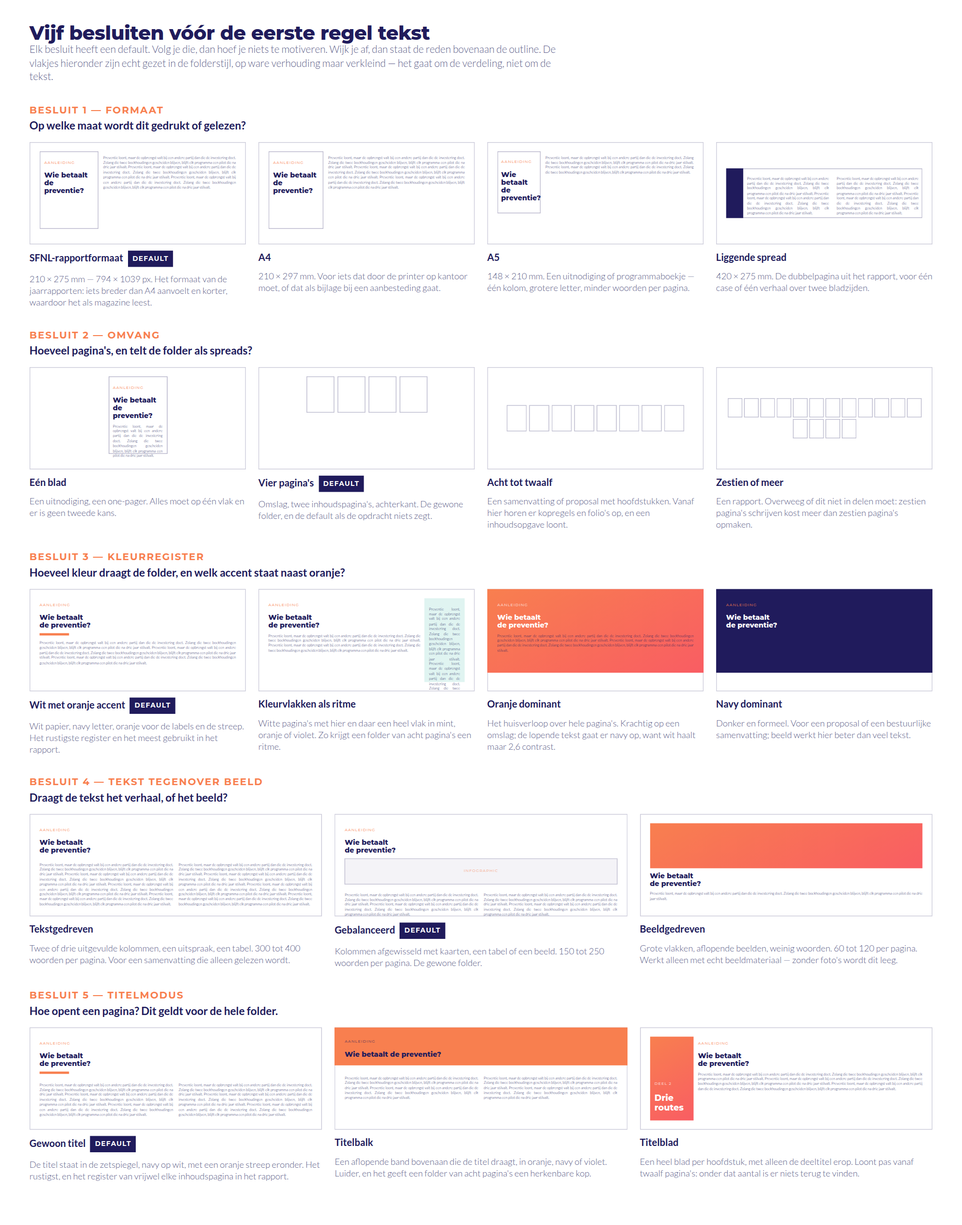
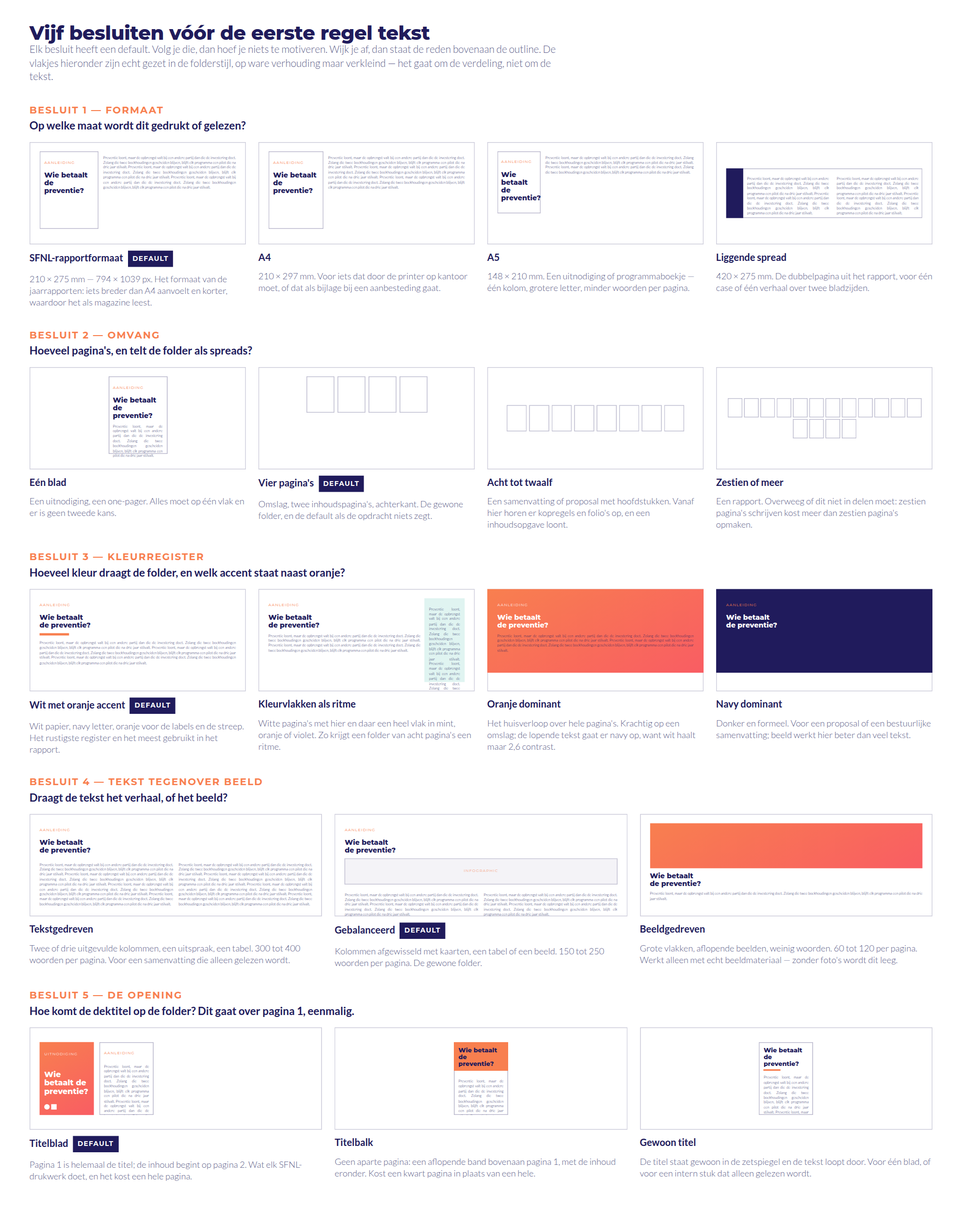
Besluit 5 gaat over de opening, niet over elke pagina
Correctie op de vorige commit. Ik had er een paginabrede modus van gemaakt —
"hoe opent een pagina, en dat geldt voor de hele folder" — terwijl het over de
dektitel gaat: hoe komt de naam van het stuk op de folder te staan. Dat gebeurt
één keer, op pagina 1.

Besluit 5 heet nu **de opening** en de afweging is ruimte tegen herkenbaarheid:

- **titelblad** (default) — pagina 1 is helemaal de titel. Wat elk SFNL-drukwerk
  doet, en het kost een hele pagina; op vier pagina's is dat een kwart.
- **titelbalk** — een aflopende band bovenaan pagina 1, inhoud eronder. Een
  kwart pagina in plaats van een hele.
- **gewoon titel** — de dektitel in de zetspiegel, tekst loopt door. Op één blad
  de enige die kan.

De oude regels eromheen klopten daardoor ook niet en zijn vervangen. "Onder de
twaalf pagina's bestaat het titelblad niet" was fout: een titelblad is precies
wat de omslag al is en is op vier pagina's volstrekt normaal. En "nooit half
balk en half gewoon" ging over de verkeerde as.

**Hoofdstukopeningen zijn iets anders** en staan nu waar ze horen: in de
outline, niet in het vragenvuur. Ze bestaan pas vanaf acht pagina's, want
daaronder zijn er geen hoofdstukken maar pagina's met een titel erboven. Drie
manieren — een kop met watermerkcijfer, een band, of een heel blad — en één
manier voor alle hoofdstukken.

**De titelbalk heeft daarmee drie gebruiken**, en de consistentieregel geldt
binnen elk apart: de dektitel, een hoofdstukopening, of één pagina die apart
[…]

Changed region(s): [[0.3438, 0.8337, 0.9375, 0.9572], [0.0312, 0.8029, 0.3438, 0.9572], [0.5938, 0.9264, 0.625, 0.9572]]

diff --git a/assets/folders/stijl.css b/assets/folders/stijl.css
@@ -608,9 +608,16 @@ a:hover { color: var(--grapefruit); }
   pointer-events: none;
 }
 
-/* 8.13a De titelbalk — de tweede van de drie titelmodi.
+/* 8.13a De titelbalk — een titel op een aflopende band.
 
-   Een aflopende band over de volle breedte die de titel draagt. Hij bleedt
+   Drie gebruiken, en ze zijn niet hetzelfde: de dektitel op pagina 1 (besluit 5
+   uit het vragenvuur), een hoofdstukopening vanaf acht pagina's, of één pagina
+   die apart staat. Dat laatste doet het drukwerk zelf ook — het rapport 2025
+   zet zijn interviewpaneel op precies één pagina. De consistentieregel geldt
+   binnen elk gebruik apart: krijgen de hoofdstukken een band, dan krijgen ze
+   hem allemaal, in dezelfde kleur en dezelfde hoogte.
+
+   De band loopt over de volle breedte en draagt de titel. Hij bleedt
    links, rechts en boven; binnenin lijnt hij uit op de marge, zodat de titel
    op dezelfde lijn staat als de tekst eronder. De titel hangt aan de ónderkant
    van de band, want dan is de afstand tot de tekst eronder de maat die het oog

diff --git a/scripts/folders/keuzekaart.py b/scripts/folders/keuzekaart.py
@@ -212,31 +212,40 @@ def bouw_html() -> str:
              "Werkt alleen met echt beeldmateriaal &mdash; zonder foto's wordt dit leeg.", False),
         ]),
 
-        _blok("Besluit 5 &mdash; titelmodus",
-              "Hoe opent een pagina? Dit geldt voor de hele folder.", [
-            ("Gewoon titel",
-             f'<div style="height:100%">{lab}{kop}'
-             f'<hr style="border:0;height:3px;width:38px;background:var(--oranje);margin:5px 0 6px">'
-             f'<div class="g2">{_lorem(3)}{_lorem(3)}</div></div>',
-             "De titel staat in de zetspiegel, navy op wit, met een oranje streep eronder. "
-             "Het rustigst, en het register van vrijwel elke inhoudspagina in het rapport.", True),
-            ("Titelbalk",
-             f'<div style="height:100%;margin:-12px -13px;display:flex;flex-direction:column">'
-             f'<div style="background:var(--oranje);color:var(--navy);padding:10px 13px 9px">'
-             f'<p class="minilabel" style="color:var(--navy);opacity:.75">Aanleiding</p>'
-             f'<p class="minikop" style="margin:0">Wie betaalt de preventie?</p></div>'
-             f'<div style="flex:1;padding:8px 13px 12px"><div class="g2">{_lorem(2)}{_lorem(2)}</div></div></div>',
-             "Een aflopende band bovenaan die de titel draagt, in oranje, navy of violet. "
-             "Luider, en het geeft een folder van acht pagina&#39;s een herkenbare kop.", False),
+        _blok("Besluit 5 &mdash; de opening",
+              "Hoe komt de dektitel op de folder? Dit gaat over pagina 1, eenmalig.", [
             ("Titelblad",
-             f'<div style="height:100%;display:flex;gap:6px">'
-             f'<div style="width:56px;height:100%;background:var(--verloop);padding:7px 6px;'
-             f'display:flex;flex-direction:column;justify-content:flex-end">'
-             f'<p class="minilabel" style="color:#fff;opacity:.85">Deel 2</p>'
-             f'<p class="minikop" style="color:#fff;font-size:11px">Drie routes</p></div>'
-             f'<div style="flex:1">{lab}{kop}{_lorem(3)}</div></div>',
-             "Een heel blad per hoofdstuk, met alleen de deeltitel erop. Loont pas vanaf "
-             "twaalf pagina&#39;s: onder dat aantal is er niets terug te vinden.", False),
+             f'<div style="height:100%;display:flex;gap:7px;align-items:center">'
+             f'<div style="width:70px;height:94px;background:var(--verloop);padding:7px 6px;'
+             f'display:flex;flex-direction:column;justify-content:space-between">'
+             f'<p class="minilabel" style="color:#fff;opacity:.85;margin:0">Uitnodiging</p>'
+             f'<p class="minikop" style="color:#fff;font-size:10px;margin:0">Wie betaalt de preventie?</p>'
+             f'<div style="display:flex;gap:2px;align-items:center">'
+             f'<div style="width:7px;height:7px;border-radius:50%;background:#fff"></div>'
+             f'<div style="width:7px;height:7px;background:#fff"></div></div></div>'
+             f'<div style="width:70px;height:94px;box-shadow:inset 0 0 0 1px rgba(32,27,92,.3);'
+             f'padding:6px;overflow:hidden">{lab}{_lorem(2)}</div>'
+             f'<div style="flex:1"></div></div>',
+             "Pagina 1 is helemaal de titel; de inhoud begint op pagina 2. Wat elk "
+             "SFNL-drukwerk doet, en het kost een hele pagina.", True),
+            ("Titelbalk",
+             f'<div style="height:100%;display:flex;justify-content:center;align-items:center">'
+             f'<div style="width:70px;height:94px;box-shadow:inset 0 0 0 1px rgba(32,27,92,.3);'
+             f'display:flex;flex-direction:column;overflow:hidden">'
+             f'<div style="background:var(--oranje);color:var(--navy);padding:6px 6px 5px">'
+             f'<p class="minikop" style="margin:0;font-size:8px">Wie betaalt de preventie?</p></div>'
+             f'<div style="flex:1;padding:5px 6px">{_lorem(2)}</div></div></div>',
+             "Geen aparte pagina: een aflopende band bovenaan pagina 1, met de inhoud "
+             "eronder. Kost een kwart pagina in plaats van een hele.", False),
+            ("Gewoon titel",
+             f'<div style="height:100%;display:flex;justify-content:center;align-items:center">'
+             f'<div style="width:70px;height:94px;box-shadow:inset 0 0 0 1px rgba(32,27,92,.3);'
+             f'padding:6px;overflow:hidden">'
+             f'<p class="minikop" style="margin:0 0 3px;font-size:8px">Wie betaalt de preventie?</p>'
+             f'<hr style="border:0;height:2px;width:22px;background:var(--oranje);margin:0 0 5px">'
+             f'{_lorem(3)}</div></div>',
+             "De titel staat gewoon in de zetspiegel en de tekst loopt door. Voor "
+             "&eacute;&eacute;n blad, of voor een intern stuk dat alleen gelezen wordt.", False),
         ]),
     ]
     return KAART.format(stijl=stijl, blokken="".join(blokken))

diff --git a/skills/sfnl-design-folders/SKILL.md b/skills/sfnl-design-folders/SKILL.md
@@ -69,8 +69,8 @@ tokens en ziet de gebruiker waar hij tussen kiest in plaats van vier woorden.
 **Stel de vijf vormvragen daarna met `AskUserQuestion`**, met de optienamen van de kaart zodat
 het beeld en de vraag hetzelfde heten. Dat gaat in twee aanroepen achter elkaar, want het widget
 neemt er vier per keer: eerst de drie die het hele document bepalen (formaat, omvang,
-kleurregister), dan de twee over hoe een pagina opent en wat hem draagt (titelmodus,
-beeldregister). De poort blijft één poort — er wordt niets geschreven voordat beide binnen zijn.
+kleurregister), dan de twee over wat een pagina draagt en hoe de folder opent (beeldregister,
+opening). De poort blijft één poort — er wordt niets geschreven voordat beide binnen zijn.
 De vier opdrachtvragen stel je in gewoon proza in hetzelfde bericht als de kaart.
 
 Verandert er een optie, dan bouw je de kaart opnieuw met
@@ -102,9 +102,10 @@ gebeurt is het besluit per pagina opnieuw nemen.
 
 De volgorde loopt van grof naar fijn. Het formaat bepaalt hoeveel er per pagina in gaat, de
 omvang bepaalt hoeveel pagina's dat zijn, het kleurregister bepaalt hoeveel vlak er staat, het
-beeldregister bepaalt daarbinnen wat tekst blijft, en de titelmodus raakt alleen de kop van de
-pagina. Een besluit verderop draait er nooit een eerder in de rij terug — en de titelmodus staat
-daarom achteraan: hij is de enige die niets aan de rest van de pagina verandert.
+beeldregister bepaalt daarbinnen wat tekst blijft, en de opening raakt alleen de eerste pagina.
+Een besluit verderop draait er nooit een eerder in de rij terug — en de opening staat daarom
+achteraan: hij is de enige die maar één pagina raakt, en hij hangt aan de omvang, want een
+titelblad kost er een.
 
 1. **Het formaat.** SFNL-rapportformaat (210 × 275 mm), A4, A5, of de liggende spread
    (420 × 275 mm). Default is **SFNL-rapportformaat**: dat is de maat van de jaarrapporten en de
@@ -134,26 +135,30 @@ daarom achteraan: hij is de enige die niets aan de rest van de pagina verandert.
    ontworpen. Is er geen beeld en wil de gebruiker het toch, zeg dan wat het kost en stel
    gebalanceerd voor met kleurvlakken als drager.
 
-5. **De titelmodus: gewoon titel, titelbalk of titelblad.** Hoe opent een pagina, en dat geldt
-   voor de hele folder.
+5. **De opening: titelblad, titelbalk of gewoon titel.** Hoe komt de dektitel op de folder te
+   staan. Dit is een eenmalig besluit over de eerste pagina en geen modus die op elke pagina
+   terugkomt.
 
-   | modus | wat het is | wanneer |
+   | opening | wat het is | wat het kost |
    |---|---|---|
-   | **gewoon titel** — default | de titel staat in de zetspiegel, navy op wit, met een oranje streep eronder | het rustigst, en het register van vrijwel elke inhoudspagina in het rapport |
-   | **titelbalk** | een aflopende band bovenaan die de titel draagt, in oranje, navy of violet | luider, en het geeft een folder een herkenbare kop. Zet `--balk` op de `.pagina` |
-   | **titelblad** | een heel blad per hoofdstuk, met alleen de deeltitel erop | pas vanaf twaalf pagina's |
+   | **titelblad** — default | pagina 1 is helemaal de titel: dektitel, ondertitel, klant en datum, logo, op een kleurveld of op wit | een hele pagina. Op vier pagina's is dat een kwart van je ruimte |
+   | **titelbalk** | geen aparte pagina: pagina 1 draagt bovenaan een aflopende band met de dektitel, en de inhoud begint eronder | ongeveer een kwart pagina, en de eerste pagina wordt voller |
+   | **gewoon titel** | de dektitel staat gewoon in de zetspiegel van pagina 1, met een streep eronder, en de tekst loopt door | vrijwel niets |
 
-   **Onder de twaalf pagina's bestaat het titelblad niet.** Dat is geen formaliteit: een titelblad
-   is er om een hoofdstuk terugvindbaar te maken, en in een folder van vier pagina's is er niets
-   terug te vinden. Het kost bovendien een heel blad van de vier.
+   Default is het **titelblad**, want dat is wat elk SFNL-drukwerk doet en het is de pagina waar
+   iemand het stuk aan herkent. Twee uitzonderingen die je zelf ziet aankomen. Op **één blad**
+   bestaat het niet — dan is er niets over voor de inhoud, dus daar is het de titelbalk of gewoon
+   een titel. En bij een **intern stuk dat alleen gelezen wordt** is een heel blad voor de titel
+   meestal zonde: een notitie van vier pagina's met een titelblad heeft drie pagina's inhoud.
 
-   Dit besluit varieert **nooit per pagina**. Half balk en half gewoon levert een folder op waarin
-   de lezer niet weet of een titel een hoofdstuk of een bewering is. Wat wél mag: in de modus
-   *titelblad* dragen de inhoudspagina's daarachter gewoon een titel — dat is dezelfde modus en
-   geen mengeling.
+   Kies je de titelbalk, dan spreek je hier ook de kleur af — oranje, navy of violet. Op oranje is
+   de inkt navy; op navy en violet is hij wit.
 
-   Kies je de titelbalk, dan spreek je hier ook de kleur af, en dat is er één voor de hele folder.
-   Op oranje is de inkt navy; op navy en violet is hij wit. `maatstaf/03` is de balk in violet.
+   **Hoofdstukopeningen zijn iets anders en horen hier niet.** Heeft de folder hoofdstukken, dan
+   is de vraag hoe die openen een eigen vraag, en je beantwoordt hem in de outline en niet hier —
+   zie *Hoofdstukken* in stap 2. Een folder kan dus prima met een titelblad beginnen en daarna
+   per hoofdstuk een band dragen; dat is geen mengeling maar twee besluiten over twee
+   verschillende dingen.
 
 **Twee dingen worden niet gevraagd.** De maatladder is een regel en geen voorkeur: body 10/13 pt,
 klein 8 pt, kop 12 pt, titel 20 pt, plus displaymaat op de omslag. En de letters staan vast —
@@ -199,6 +204,23 @@ Dan per pagina:
 **Wat je niet in de outline zet: maten.** Geen px, geen kolombreedtes, geen paginaindeling. De
 plattegrond, de drager en het beeldbesluit horen er wél in — dat is de reden waarom de tekst deze
 lengte heeft, en het is het enige stuk vorm dat vóór het bouwen te beoordelen is.
+
+**Hoofdstukken, als de folder ze heeft.** Dit is een andere vraag dan besluit 5: dat ging over de
+dektitel en deze gaat over hoe een hoofdstuk begint. Hij bestaat pas vanaf acht pagina's — onder
+dat aantal is er niets terug te vinden en heb je gewoon pagina's met een titel erboven.
+
+Drie manieren, en je kiest er één voor alle hoofdstukken:
+
+| hoofdstukopening | wat je bouwt |
+|---|---|
+| **een kop met een watermerkcijfer** | `.kicker` plus `.titel` in de zetspiegel, met `.watermerk` half erachter. Het lichtst, en het is wat het rapport doet |
+| **een band** | een `.titelbalk` bovenaan die pagina, met `--balk` op de `.pagina` |
+| **een heel blad** | een pagina met alleen de hoofdstuknaam. Pas vanaf zestien pagina's, want het kost er telkens een |
+
+**Eén manier voor alle hoofdstukken, en één maat.** Hoofdstuk 1 met een band en hoofdstuk 2 met
+alleen een kop leest als een fout, en een band van 190 px op de ene en 260 op de volgende laat de
+tekst per pagina op een andere hoogte beginnen — op de spread is dat een scheve horizon. Zet de
+gekozen manier en de bandhoogte bovenaan de outline, bij de vijf besluiten.
 
 **Twee dingen die alleen bij drukwerk horen en die je hier vastlegt.** De **spreadindeling**: welke
 pagina's liggen tegenover elkaar, en klopt dat paar. En de **doorloop**: loopt een tekst over de

diff --git a/reference/folders-stramien.md b/reference/folders-stramien.md
@@ -163,7 +163,7 @@ niet.
 | `.icoon` | een soort die de lezer moet vergelijken | zelf getekend in SVG op een raster van 24. Geen bibliotheek, geen emoji |
 | `.doorloop` | dit loopt door op de volgende pagina | een klein oranje driehoekje aan het eind van de laatste alinea |
 | `.logo` | het merk | inline SVG, erft `currentColor` |
-| `.titelbalk` | de titel op een aflopende band bovenaan | zet `--balk` op de `.pagina`, niet op de balk. `data-veld` kiest de kleur én de inkt |
+| `.titelbalk` | een titel op een aflopende band bovenaan — de dektitel op pagina 1, of een hoofdstuknaam | zet `--balk` op de `.pagina`, niet op de balk. `data-veld` kiest de kleur én de inkt |
 | `.beeldkader` | de gereserveerde plek voor een infographic of foto | verhouding inline met `aspect-ratio`; zonder opgaaf 3:2 |
 | `.beeldkader--leeg` | er hoort hier beeld en het is er nog niet | met `data-wat="…"`; `qa_folder.py` telt wat je hebt laten staan |
 
@@ -189,25 +189,53 @@ precies goed; op een inhoudspagina is het bijna altijd fout. `qa_folder.py` meet
 
 ---
 
-## 5a. De titelmodus
+## 5a. De opening, en de hoofdstukopening
 
-Drie modi, en het is één keuze voor de hele folder (besluit 5 in het vragenvuur).
+Twee verschillende dingen, en ze worden op verschillende momenten besloten.
 
-| modus | hoe je hem bouwt |
+**De opening** is hoe de dektitel op de folder komt. Eenmalig, pagina 1, besluit 5 in het
+vragenvuur.
+
+| opening | hoe je hem bouwt |
 |---|---|
+| **titelblad** | een hele pagina, gecomponeerd met `.display`, een kleurveld en het logo. Geen eigen klasse, want dat zou een paginasjabloon zijn |
+| **titelbalk** | `<header class="titelbalk" data-veld="oranje">` als broer van de zetspiegel, en `--balk` op de `.pagina` |
 | **gewoon titel** | `.titel` in de zetspiegel, met `.streep` eronder |
-| **titelbalk** | `<header class="titelbalk" data-veld="violet">` als broer van de zetspiegel, en `--balk` op de `.pagina` |
-| **titelblad** | een hele pagina, gecomponeerd met `.display`, `.watermerk` en een kleurveld. Geen eigen klasse, want dat zou een paginasjabloon zijn |
 
-De titelbalk bleedt links, rechts en boven, en lijnt binnenin uit op de marge. De titel hangt aan
-de **onderkant** van de band, want dan is de afstand tot de tekst eronder de maat die het oog
-leest. Gemeten voorbeeld: de casespread Civitates zet de casenaam op 42 pt in wit op een violet
-paneel over de volle bovenbreedte.
+**De hoofdstukopening** is hoe een hoofdstuk begint, en die vraag bestaat pas vanaf acht
+pagina's. Je beantwoordt hem in de outline (stap 2 van de SKILL). Drie manieren: een `.kicker`
+plus `.titel` met een `.watermerk` half erachter, een `.titelbalk` op die pagina, of een heel
+blad met alleen de hoofdstuknaam. Eén manier voor álle hoofdstukken, en één bandhoogte.
+
+Een folder kan dus met een titelblad beginnen en daarna per hoofdstuk een band dragen. Dat is
+geen mengeling maar twee besluiten over twee verschillende dingen.
+
+### De titelbalk
+
+De band heeft **drie gebruiken** en de consistentieregel geldt binnen elk ervan apart:
+
+1. **De dektitel op pagina 1**, als je bij besluit 5 voor de titelbalk hebt gekozen. Eén keer.
+2. **Een hoofdstukopening**, vanaf acht pagina's. Dan krijgen álle hoofdstukken er een, in
+   dezelfde kleur en dezelfde hoogte.
+3. **Eén pagina die apart staat** — een interview, een uitspraak, het beeld waar de hele folder
+   om draait. Dat is geen inconsistentie maar nadruk, en het staat zo in het drukwerk: het
+   rapport 2025 zet zijn interviewpaneel op precies één pagina, en de oranje band en het
+   mintveld ook. `maatstaf/03` doet hetzelfde met een violette band op de pagina met de
+   infographic.
+
+Wat je niet doet is twee van de drie door elkaar op één folder. Draagt hoofdstuk 2 een band en
+staat er ook een band op de pagina die apart hoort te staan, dan valt de nadruk weg.
+
+De band bleedt links, rechts en boven, en lijnt binnenin uit op de marge. De titel hangt aan de
+**onderkant** van de band, want dan is de afstand tot de tekst eronder de maat die het oog leest.
+Gemeten voorbeeld: de casespread Civitates zet de casenaam op 42 pt in wit op een violet paneel
+over de volle bovenbreedte.
 
 `--balk` staat op de `.pagina` en niet op de balk zelf. De balk leest hem als zijn hoogte, de
 zetspiegel telt hem bij zijn bovenmarge op, en zo noem je de bandhoogte maar één keer. Vergeet je
-hem, dan is de band nul hoog; `qa_folder.py` meldt dat als `critical`, want de titel staat er dan
-wel en de band niet.
+hem, dan zakt de band terug op zijn padding — niet naar nul, want `box-sizing: border-box` — en
+wordt de titel erin afgesneden. `qa_folder.py` leest daarom de variabele zelf en niet de hoogte,
+en meldt het als `critical`.
 
 Bruikbare bandhoogtes op `sfnl`: 190 px voor een titel van één regel, 232 voor twee regels met
 een kicker erboven, 300 als er ook een intro in de band staat.

diff --git a/reference/folders-vormentaal.md b/reference/folders-vormentaal.md
@@ -163,24 +163,39 @@ vulling.
 
 ---
 
-## 9. De titelmodus is één keuze voor de hele folder
+## 9. De opening is eenmalig; de hoofdstukopening is iets anders
 
-Drie manieren waarop een pagina opent, en de folder kiest er één (besluit 5 in het vragenvuur).
+Twee vragen die op elkaar lijken en het niet zijn.
 
-- **Gewoon titel.** Navy op wit in de zetspiegel, met een oranje streep eronder. Het rustigst.
-- **Titelbalk.** Een aflopende band bovenaan die de titel draagt. Luider, en het geeft de folder
-  een herkenbare kop — bij het doorbladeren zie je aan de kleur van de band waar je bent.
-- **Titelblad.** Een heel blad per hoofdstuk. Pas vanaf twaalf pagina's, want daaronder is er
-  niets terug te vinden en kost het een blad van de vier.
+**De opening** gaat over de dektitel: hoe komt de naam van het stuk op de folder te staan. Dat
+gebeurt één keer, op pagina 1, en het is besluit 5 in het vragenvuur.
 
-**Half balk en half gewoon is de fout.** Dan weet de lezer niet of een titel een hoofdstuk
-aankondigt of een bewering doet, en dat is precies wat de titelrij van een folder moet vertellen.
-Wat wél mag: in de modus titelblad dragen de inhoudspagina's daarachter gewoon een titel. Dat is
-dezelfde modus, niet een mengeling.
+- **Titelblad.** Pagina 1 is helemaal de titel. Wat elk SFNL-drukwerk doet, en het is de pagina
+  waaraan iemand het stuk later terugkent. Het kost een hele pagina, en op een folder van vier is
+  dat een kwart van je ruimte.
+- **Titelbalk.** Geen aparte pagina: een aflopende band bovenaan pagina 1 draagt de dektitel en
+  de inhoud begint eronder. Ongeveer een kwart pagina, en de eerste pagina wordt voller.
+- **Gewoon titel.** De dektitel staat in de zetspiegel met een streep eronder en de tekst loopt
+  door. Vrijwel gratis, en op één blad is het de enige die kan.
 
-**En de balk heeft één maat voor de hele folder.** Een band van 190 px op de ene pagina en 260 op
-de volgende laat de tekst per pagina op een andere hoogte beginnen, en op de spread is dat een
-scheve horizon.
+De afweging is dus ruimte tegen herkenbaarheid, en die valt anders uit naar buiten dan naar
+binnen. Een uitnodiging die de deur uit gaat verdient zijn titelblad; een interne notitie van
+vier pagina's die alleen gelezen wordt, houdt liever vier pagina's inhoud over dan drie.
+
+**De hoofdstukopening** gaat over iets anders: hoe begint een hoofdstuk binnen de folder. Die
+vraag bestaat pas vanaf acht pagina's — onder dat aantal zijn er geen hoofdstukken maar pagina's
+met een titel erboven, en er valt niets terug te vinden. Je beslist hem in de outline en niet in
+het vragenvuur.
+
+**De regel die hier geldt is consistentie, en die geldt alleen binnen elke vraag apart.** Alle
+hoofdstukken openen op dezelfde manier: hoofdstuk 1 met een band en hoofdstuk 2 met alleen een
+kop leest als een fout. En als er een band is, heeft hij één hoogte — 190 px op de ene pagina en
+260 op de volgende laat de tekst per pagina op een andere hoogte beginnen, en op de spread is dat
+een scheve horizon.
+
+Wat géén fout is: een folder die met een titelblad begint en daarna per hoofdstuk een band
+draagt. Dat zijn twee besluiten over twee verschillende dingen, en de lezer leest ze ook zo — de
+eerste zegt "dit is het stuk", de tweede zegt "hier begint een deel".
 
 ---
 
@@ -254,8 +269,8 @@ hier omdat ze allemaal, stuk voor stuk, de eerste inval zijn.
     een document, geen drukwerk.
 15. **Een infographic die niets uitrekent.** Drie gekleurde vlakken met een woord erin, of een
     stel iconen op een rij. Haal het beeld weg: mist er niets, dan hoorde het er niet.
-16. **Een titelbalk die per pagina van hoogte verandert.** Dan begint de tekst op elke pagina
-    ergens anders, en op de spread is dat een scheve horizon.
+16. **Hoofdstukken die elk anders openen**, of een band die per hoofdstuk van hoogte verandert.
+    Dan begint de tekst op elke pagina ergens anders, en op de spread is dat een scheve horizon.
 
 ---
 

diff --git a/assets/folders/maatstaf/LEESMIJ.md b/assets/folders/maatstaf/LEESMIJ.md
@@ -7,9 +7,9 @@ na te tekenen maar om te weten wat "af" betekent. De bron van dezelfde vier staa
 | bestand | wat het laat zien |
 |---|---|
 | `00-contactblad.png` | de vijf als spreads: 1 alleen, dan 2-3, dan 4-5. Kijk hier áltijd eerst naar |
-| `01-omslag.png` | een omslag zonder foto: het huisverloop, één tonale bol, displaymaat, en drie labelblokken onderaan |
-| `02-tekstpagina.png` | het gewone register en titelmodus *gewoon titel*: watermerkcijfer, chapeau, twee uitgevulde kolommen met aanheffen, een uitspraak, een feitenstrip |
-| `03-titelbalk-en-infographic.png` | titelmodus *titelbalk* in violet, met een infographic als drager in een `.beeldkader` op schaal 1:1 |
+| `01-omslag.png` | de opening als **titelblad**: het huisverloop, één tonale bol, displaymaat, en drie labelblokken onderaan. Geen foto, want die was er niet |
+| `02-tekstpagina.png` | het gewone register: watermerkcijfer, chapeau, twee uitgevulde kolommen met aanheffen, een uitspraak, een feitenstrip |
+| `03-titelbalk-en-infographic.png` | een `.titelbalk` in violet om één pagina apart te zetten — het derde gebruik van de band, niet de dektitel en niet een hoofdstuk — met een infographic als drager in een `.beeldkader` op schaal 1:1 |
 | `04-kaarten-en-tabel.png` | drie kaarten op het verloop met gelijke hoogte, twee kolommen proza, een tabel naast een mintpaneel |
 | `05-kleurpagina.png` | een heel blad in mint met een aflopende oranje band onderaan, genummerde badges, en het logo op de band |
 

diff --git a/README.md b/README.md
@@ -28,8 +28,9 @@ past, past niet, en dat hoort te blijken.
   element dat over de snijrand steekt, een gat van 300 px in het midden van een pagina, wit op
   oranje op contrast 2,6. Drie ervan blokkeren; de rest is een aanwijzing en de render beslist.
 - **Vijf besluiten vóór de eerste regel tekst**, met een gerenderde keuzekaart erbij: formaat,
-  omvang, kleurregister, tekst tegenover beeld, en de titelmodus (gewoon titel, een aflopende
-  titelbalk, of een heel titelblad).
+  omvang, kleurregister, tekst tegenover beeld, en de opening — komt de dektitel op een heel
+  titelblad, in een aflopende titelbalk, of gewoon in de zetspiegel. Hoe hóófdstukken openen is
+  een andere vraag en die staat in de outline, want hij bestaat pas vanaf acht pagina's.
 - **Ruimte voor een infographic** is een merkteken, geen losse div: `.beeldkader` houdt de
   verhouding vast, en een kader waar het beeld nog niet in zit staat er zichtbaar leeg bij in
   plaats van als witruimte mee te lezen.

diff --git a/assets/folders/voorbeeld/LEESMIJ.md b/assets/folders/voorbeeld/LEESMIJ.md
@@ -7,9 +7,9 @@ De gerenderde versie staat in `assets/folders/maatstaf/`, met de fouten die erui
 
 | bestand | pagina |
 |---|---|
-| `Main.dc.html` | de omslag. Het eerste artboard moet Main heten; dat is een eis van de canvashelper |
-| `Aanleiding.dc.html` | de tekstpagina, titelmodus *gewoon titel* |
-| `Geldstroom.dc.html` | titelmodus *titelbalk*, met een infographic als drager |
+| `Main.dc.html` | de opening als titelblad. Het eerste artboard moet Main heten; dat is een eis van de canvashelper |
+| `Aanleiding.dc.html` | de tekstpagina |
+| `Geldstroom.dc.html` | een `.titelbalk` om één pagina apart te zetten, met een infographic als drager |
 | `Routes.dc.html` | kaarten plus tabel |
 | `Programma.dc.html` | de kleurpagina met de aflopende band |
 
